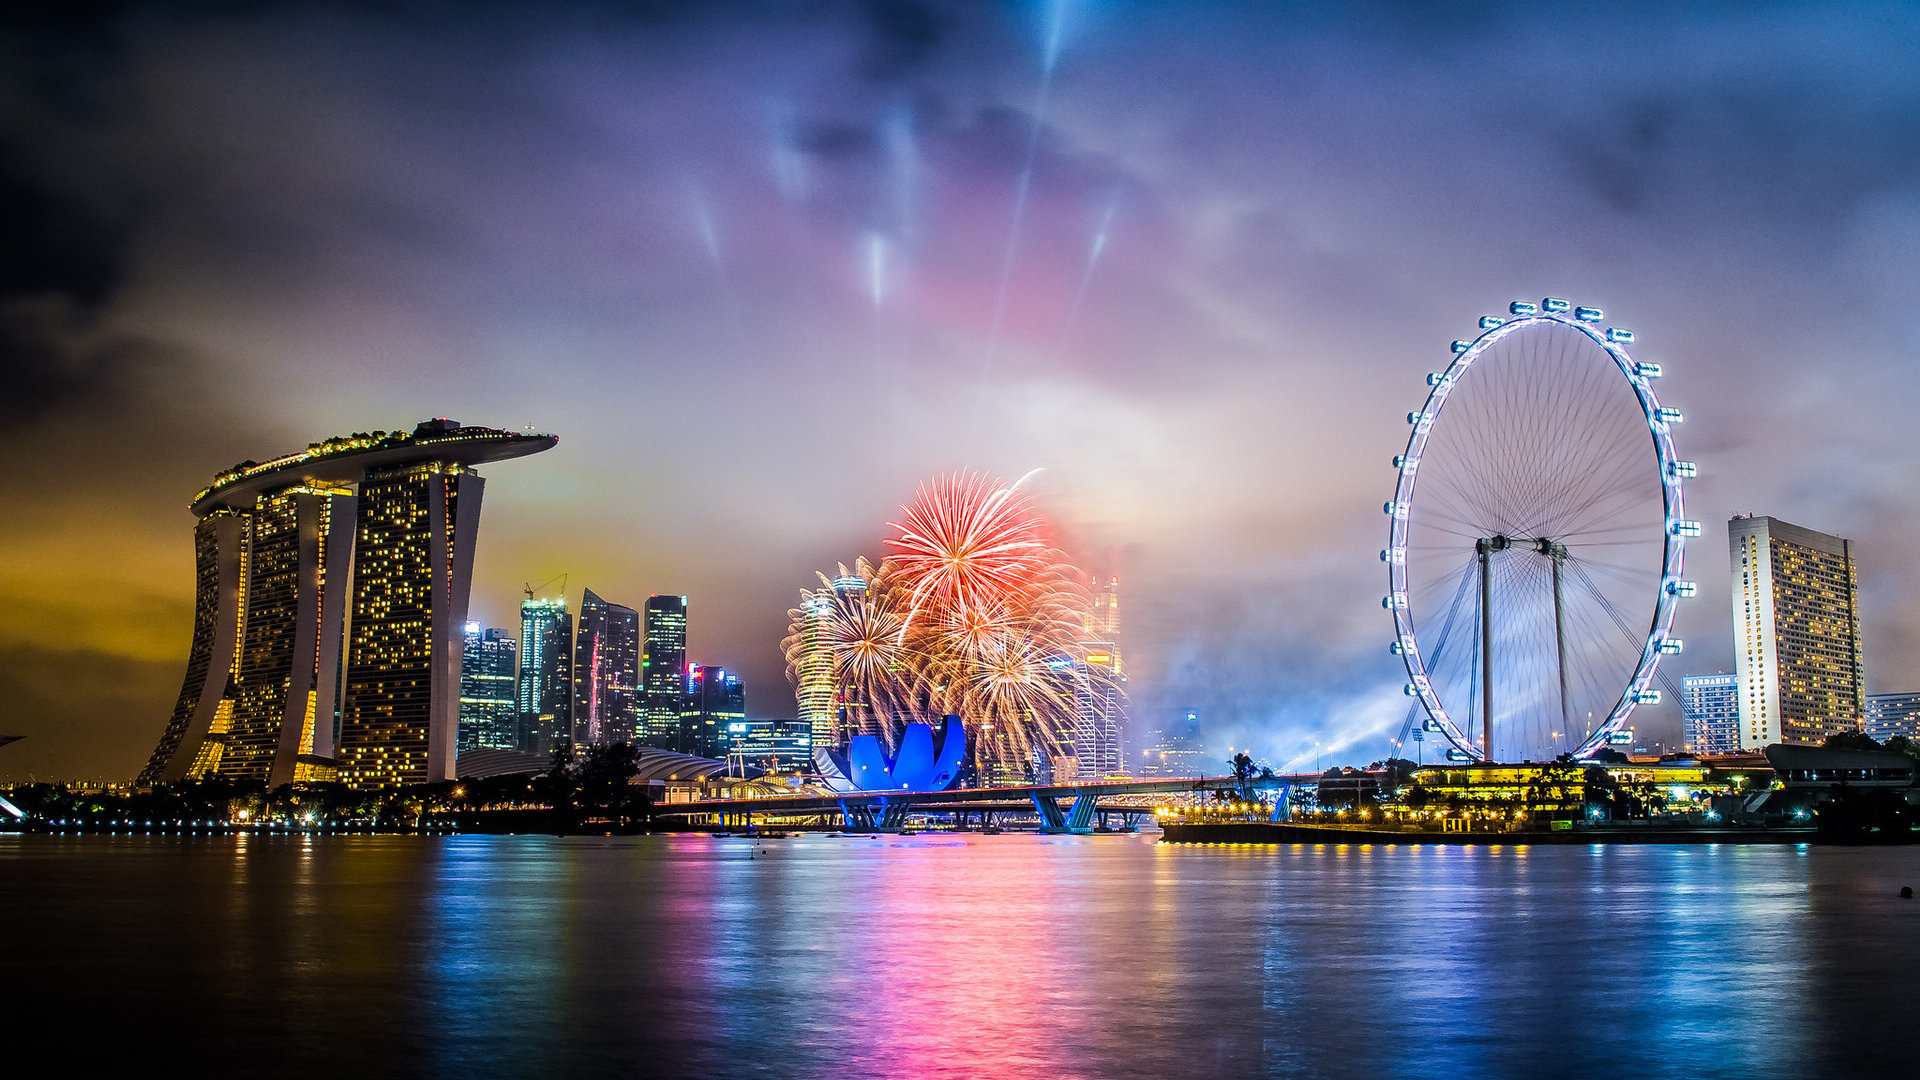
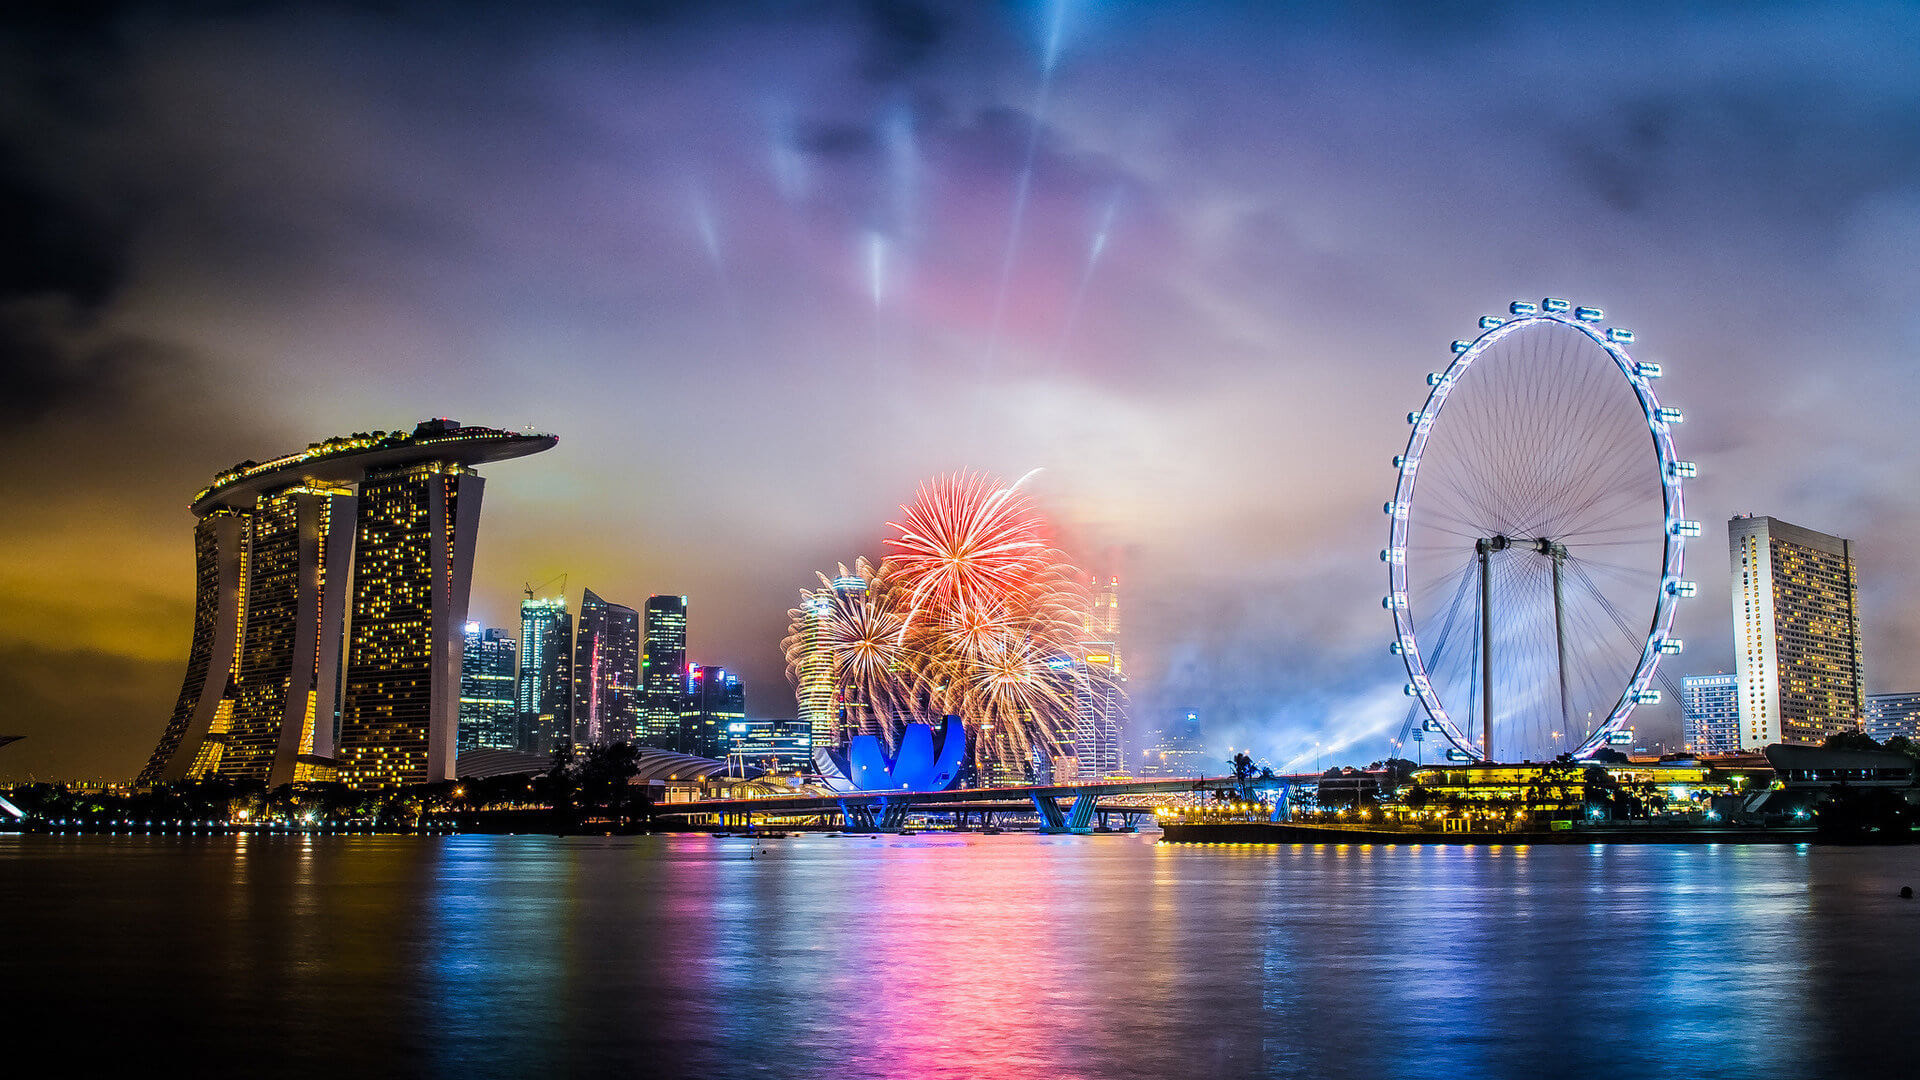
inner

diff --git a/src/layout/headers.vue b/src/layout/headers.vue
@@ -8,9 +8,9 @@
           <i class="el-icon-arrow-down el-icon--right"></i>
         </el-button>
         <el-dropdown-menu slot="dropdown">
-          <el-dropdown-item @click.native="changeMode(0)"><img class="dropdownImg" src="../assets/image/back.jpg" alt=""></el-dropdown-item>
-          <el-dropdown-item @click.native="changeMode(1)"><img class="dropdownImg" src="../assets/image/back1.jpg" alt=""></el-dropdown-item>
-          <el-dropdown-item @click.native="changeMode(2)"><img class="dropdownImg" src="../assets/image/back2.jpeg" alt=""></el-dropdown-item>
+          <el-dropdown-item @click.native="changeMode(0)"><img class="dropdownImg" src="http://cdns.cherish553.cn/back.jpg" alt=""></el-dropdown-item>
+          <el-dropdown-item @click.native="changeMode(1)"><img class="dropdownImg" src="http://cdns.cherish553.cn/back1.jpg" alt=""></el-dropdown-item>
+          <el-dropdown-item @click.native="changeMode(2)"><img class="dropdownImg" src="http://cdns.cherish553.cn/back2.jpeg" alt=""></el-dropdown-item>
         </el-dropdown-menu>
       </el-dropdown>
       <i v-if='!full' class="white el-icon-zoom-in fs mr20" @click="fullScreen"></i>

diff --git a/public/index.html b/public/index.html
@@ -14,9 +14,11 @@
     </noscript>
     <div id="app"></div>
     <!-- built files will be auto injected -->
-    <script src="https://cdn.bootcss.com/vue/2.5.9/vue.min.js"></script>
-    <script src="https://cdn.bootcss.com/vue-router/3.0.1/vue-router.min.js"></script>
-    <script src="https://cdn.bootcss.com/vuex/3.0.1/vuex.min.js"></script>
-    <script src="https://cdn.bootcss.com/element-ui/2.0.7/index.js"></script>
+    <script src="https://cdn.bootcss.com/vue/2.6.10/vue.min.js"></script>
+    <script src="https://cdn.bootcss.com/vue-router/3.1.3/vue-router.min.js"></script>
+    <script src="https://cdn.bootcss.com/vuex/3.1.1/vuex.min.js"></script>
+    <script src="https://cdn.bootcss.com/element-ui/2.12.0/index.js"></script>
+    <script src="https://cdn.bootcss.com/axios/0.19.0-beta.1/axios.min.js"></script>
+    <script src="https://cdn.bootcss.com/js-cookie/latest/js.cookie.min.js"></script>
   </body>
 </html>

diff --git a/src/assets/css/common.less b/src/assets/css/common.less
@@ -27,7 +27,6 @@ body,
 
 body {
     min-width: 1200px;
-    // background-image: url("../../assets/image/back.jpg");
 }
 
 .el-cascader {
@@ -35,15 +34,15 @@ body {
 }
 
 .bgi {
-    background-image: url("../../assets/image/back.jpg");
+    background-image: url("http://cdns.cherish553.cn/back.jpg");
 }
 
 .bgi1 {
-    background-image: url("../../assets/image/back1.jpg");
+    background-image: url("http://cdns.cherish553.cn/back1.jpg");
 }
 
 .bgi2 {
-    background-image: url("../../assets/image/back2.jpeg");
+    background-image: url("http://cdns.cherish553.cn/back2.jpeg");
 }
 
 .w100 {

diff --git a/vue.config.js b/vue.config.js
@@ -42,7 +42,9 @@ module.exports = {
       'vue': 'Vue',
       'vue-router': 'VueRouter',
       'element-ui': 'ELEMENT',
-      'vuex': 'Vuex'
+      'vuex': 'Vuex',
+      'axios': 'axios',
+      'js-cookie': 'js-cookie'
     }
   }
 }

diff --git a/src/App.vue b/src/App.vue
@@ -6,11 +6,6 @@
 <script>
 import { mapState, mapActions } from 'vuex'
 export default {
-  data () {
-    return {
-      url: '@/assets/image/back.jpg'
-    }
-  },
   created () {
     this.setUser()
     this.setMode()
